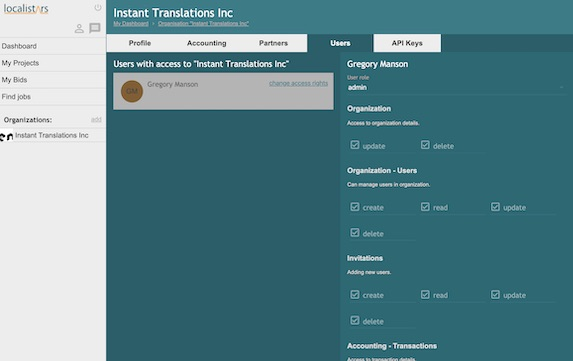
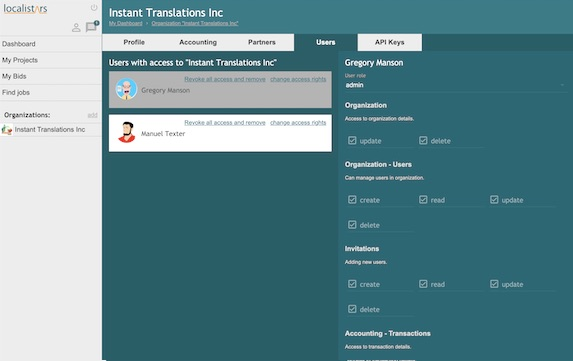
change image

diff --git a/for-clients.html b/for-clients.html
@@ -98,7 +98,7 @@
                     <div class="feature-item">
                       <div class="device-wrapper" style="margin: 0 auto 0;">
                         <div class="device" data-device="MacbookPro" data-orientation="portrait" data-color="black" style="z-index: 0;">
-                          <div class="screen"><img class="img-responsive" src="img/screenshots/screen/users_creator.jpg" alt="localistars users"></div>
+                          <div class="screen"><img class="img-responsive" src="img/screenshots/screen/users_consumer.jpg" alt="localistars users"></div>
                         </div>
                       </div>
                     </div>
